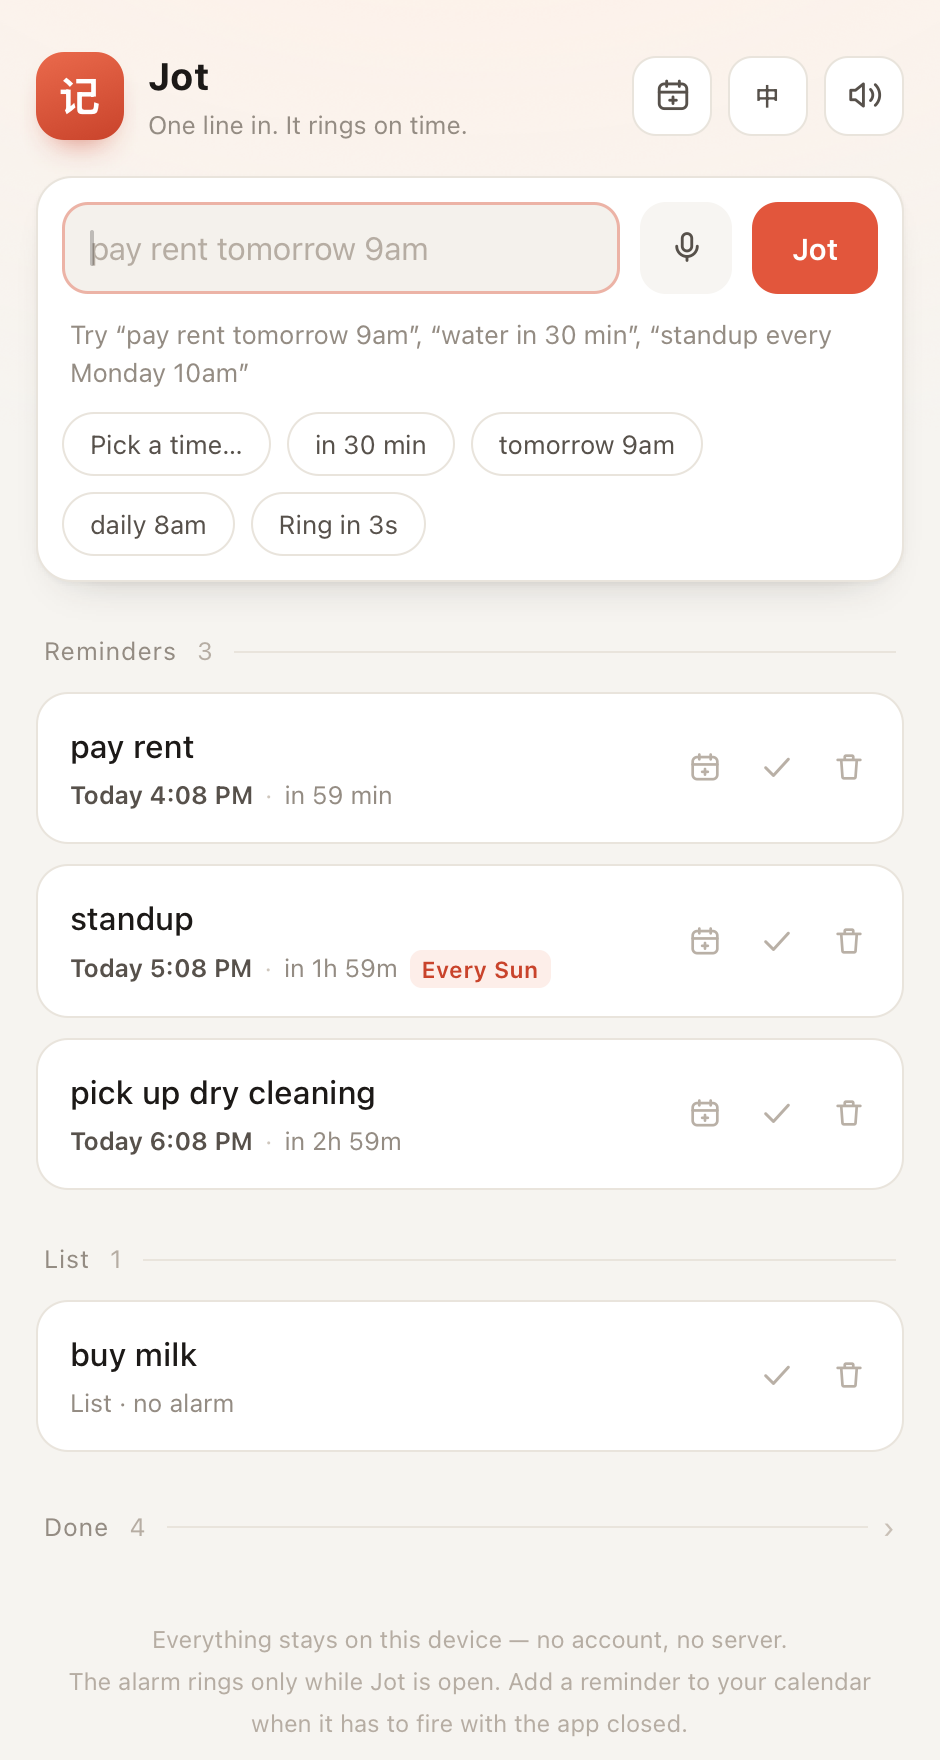
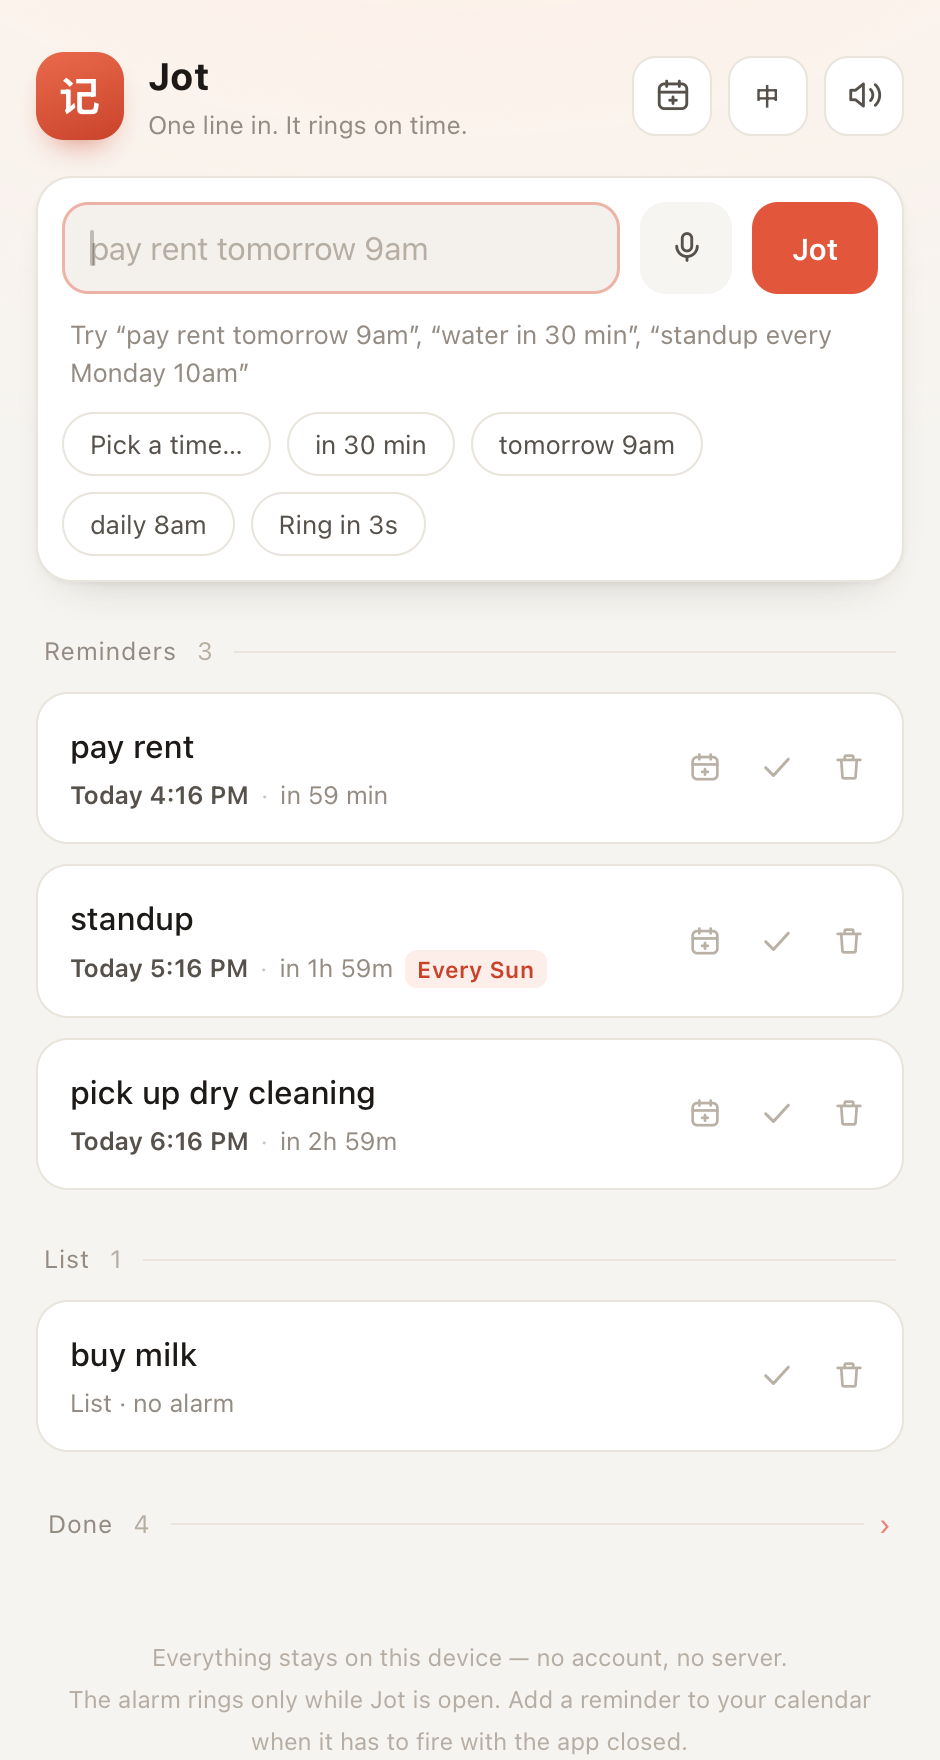
Done row: whole 44px band is the target, with hover tint and coral chevron

diff --git a/index.html b/index.html
@@ -231,15 +231,24 @@
   .ghost[hidden]{display:none}
 
   /* ---------- done log (archive) ---------- */
+  /* The whole band is the target, not the word: 44px tall (Apple's minimum),
+     tinted edge to edge on hover, so the row announces itself before you aim. */
   .group-head.done-bar{
-    width:100%;margin:26px 0 11px;padding:4px;border:0;background:transparent;text-align:left;
+    width:100%;margin:14px 0 0;padding:12px 6px;min-height:44px;
+    border:0;background:transparent;text-align:left;
     font-family:inherit;font-size:12.5px;letter-spacing:.5px;color:var(--muted);cursor:pointer;
-    border-radius:8px;
+    border-radius:10px;
+    transition:background .16s ease, color .16s ease;
   }
   .group-head.done-bar::after{order:2}
-  .group-head.done-bar .chev{order:3;margin-left:-3px;color:#c9c0b6;font-size:15px;line-height:1}
-  .group-head.done-bar:hover{color:var(--accent-2)}
-  .group-head.done-bar:hover .chev{color:var(--accent)}
+  .group-head.done-bar .chev{
+    order:3;margin-left:-3px;color:var(--accent);opacity:.7;font-size:15px;line-height:1;
+    transition:opacity .16s ease, transform .16s ease;
+  }
+  .group-head.done-bar:hover{background:rgba(226,86,60,.055);color:var(--accent-2)}
+  .group-head.done-bar:hover .chev{opacity:1;transform:translateX(2px)}
+  .group-head.done-bar:active{background:rgba(226,86,60,.11)}
+  .group-head.done-bar:focus-visible{outline:2px solid var(--accent);outline-offset:2px}
 
   .sheet-panel.log{max-height:78vh;min-height:260px;display:flex;flex-direction:column}
   .log-head{display:flex;align-items:baseline;gap:8px;margin:0 0 6px}

diff --git a/README.zh-CN.md b/README.zh-CN.md
@@ -57,6 +57,8 @@ open index.html          # 这就是安装
 
 勾掉的条目会进「已完成」。这一块**永远不会变长**：主界面上只占一行 `已完成 128 ›`，
 不管攒了多少历史，页面长度都是固定的，所以页首的操作按钮也不会被挤到看不见的地方。
+能点的**是整条横带，不是那几个字**：44px 高（Apple 建议的触控下限）、横跨整个列表宽度，
+鼠标移上去整条染色、箭头转成珊瑚色——不用去瞄准一行 20px 高的文字。
 
 ![已完成归档](docs/screenshot-log.png)
 

diff --git a/README.md b/README.md
@@ -65,6 +65,8 @@ The calendar button in the header (`Add all reminders to Calendar`) exports the 
 
 Ticking a reminder off moves it to `Done`. That row never grows: the list shows one line —
 `Done 128 ›` — no matter how much history piles up, so the main screen stays the same length forever.
+The whole band is the button, not the word: 44 px tall (Apple's minimum touch target), edge to edge,
+tinting on hover with the chevron turning coral — nothing to aim at.
 
 ![Done archive](docs/screenshot-log.png)
 
